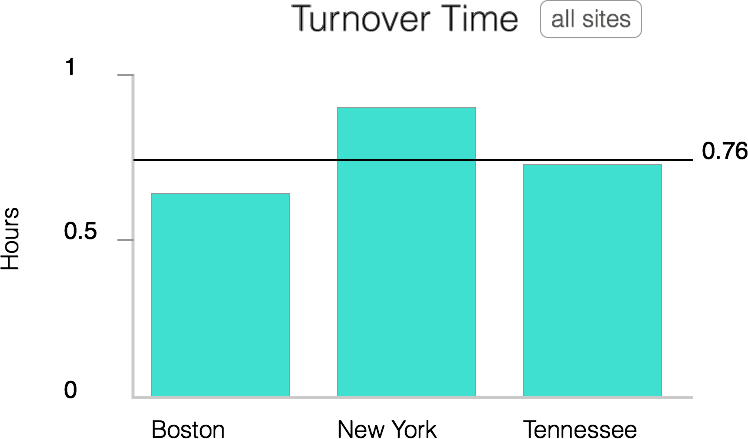
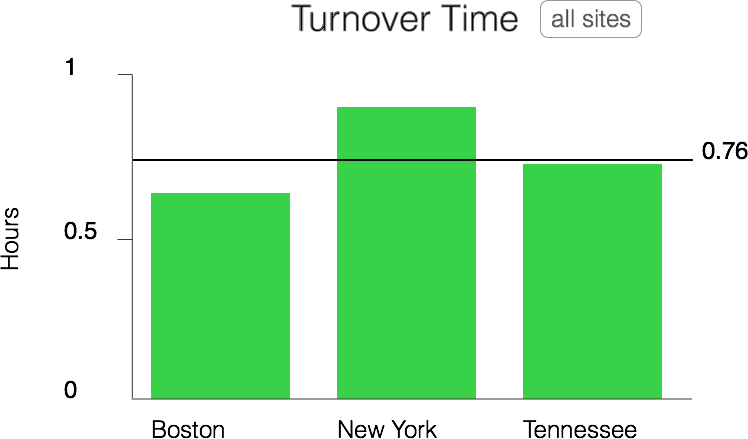
the colors, duke.

diff --git a/index.html b/index.html
@@ -56,8 +56,8 @@
     </head>
     <body data-spy="scroll" data-target="nav" class="backgroundGradient soft-scroll">
         <header id="header-2" class="soft-scroll header-2 no-shadow">
-            <nav class="main-nav navbar no-shadow margin-bottom0 navbar-static-top backgroundGradient" style="border-bottom:0; ">
-                <div class="container">
+            <nav class="main-nav navbar no-shadow margin-bottom0 navbar-static-top" style="border-bottom:0; ">
+                <div class="container" style="max-width: initial;">
                     <!-- Brand and toggle get grouped for better mobile display -->
                     <div class="navbar-header">
                         <button type="button" class="navbar-toggle collapsed bg-white" data-toggle="collapse" data-target="#navbar-collapse">
@@ -66,8 +66,8 @@
                             <span class="icon-bar"></span>
                             <span class="icon-bar"></span>
                         </button>
-                        <a>
-                            <img src="img/roomflag_bevel3_copy_copy.png" style="max-height:70px" class="pad20" />
+                        <a class="pull-left">
+                            <img src="img/roomflag_logo_bg.png" style="max-height:70px" class="pad20" />
                         </a>
                     </div>
                     <!-- Collect the nav links, forms, and other content for toggling -->
@@ -93,38 +93,20 @@
                 <!-- /.container-fluid -->
             </nav>
         </header>
-        <section id="promo-1" class="content-block promo-1 bg-image-cover backgroundGradient min-height-700px">
-            <svg viewbox="0 0 1226 340" id="back-rainbow" preserveaspectratio="none" style="
-    right: 0;
-    width: 78%;
-">
-                <defs>
-                    <linearGradient x1="100%" y1="0%" x2="0%" y2="15%" id="back-rainbow-gradient">
-                        <stop stop-color="#40E0D0" offset="0%"></stop>
-                        <stop stop-color="#40E0D0" offset="100%"></stop>
-                    </linearGradient>
-                </defs>
-                <path d="M1074 0C673.94.2 303.56 126 0 340h1226V6c-50.1-3.72-100.95-5.8-152-6z" fill="url(#back-rainbow-gradient)"></path>
-            </svg>
-            <svg viewbox="0 0 1280 110" preserveaspectratio="none" id="header-curve-shadow">
-                <path d="M1280 3.9V110H0C194 71.33 662-19.9 1280 3.9z"></path>
-            </svg>
-            <svg viewbox="0 0 1280 110" preserveaspectratio="none" id="header-curve">
-                <path d="M1280 3.9V110H0C194 71.33 662-19.9 1280 3.9z" fill="#fff"></path>
-            </svg>
-            <div class="container" style="max-width: initial;">
+        <section id="promo-1" class="content-block promo-1 bg-image-cover min-height-600px backgroundGradient">
+            <div class="container" style="//max-width: initial;">
                 <div class="row">
+                    <!-- /.col -->
                     <div class="col-md-5">
-                        <h1 class="deepocean">The best way to track your facilities&nbsp;&trade;<br /></h1>
-                        <h4 class="deepocean" style="padding:1em; font-weight:300; border: 1px solid #193441;">increase service-speed and satisfy customers while collecting critical data to inform your management decisions.</h4>
+                        <h1 class="deepocean">The best way to track your rooms&trade;<br></h1>
+                        <h4 class="deepocean" style="padding:.5em 1em ; font-weight:300; border: 1px solid #193441;">increase service-speed and satisfy customers while collecting critical data to inform your management decisions.</h4>
                         <form>
                             <div class="input-group darkGlow">
                                 <input type="email" class="form-control input-lg email" placeholder="Email">
-                                <span class="input-group-btn"><button class="btn btn-success btn-lg bg-light-turquoise" type="submit">RSVP</button></span>
+                                <span class="input-group-btn"><button class="btn btn-success btn-lg bg-primary" type="submit">RSVP</button></span>
                             </div>
                         </form>
                     </div>
-                    <!-- /.col -->
                     <div class="col-md-6 col-md-offset-1">
                         <div class="videoWrapper margin-top30">
                             <iframe width="500" height="281.25" src="https://www.youtube.com/embed/VheoJ7mNLCo?rel=0&amp;showinfo=0" frameborder="0" allowfullscreen class="outlineGrey"></iframe>
@@ -135,21 +117,14 @@
                 <!-- /.row -->
             </div>
         </section>
-        <section class="content-block content-2-3 pad90 pad-bottom90">
+        <section class="content-block content-2-3 pad90 pad-bottom90 bg-primary">
             <div class="container">
-                <div class="text-center col-sm-12">
-                    <div style="padding:1em;" class="bg-white">
-                        <h1 class="margin-bottom60 hidden-xs visible-sm visible-md visible-lg deepocean">Make management&nbsp;<span class="turquoise">simple</span>.<small class="moonlight"><br>If you manage rooms or facilities, you need RoomFlag.</small></h1>
-                        <h2 class="deepocean margin-bottom60 hidden-sm hidden-md hidden-lg">Make management a&nbsp;breeze.</h2>
-                        <h2 class="moonlight text-justify bg-white" style="padding:1em; font-weight:300; border: 1px solid #193441;"><small class="moonlight">Coordinating your staff and&nbsp;keeping track of what's going on in your facilities&nbsp;is a burden. RoomFlag makes your facilities run smoothly by being the one place where everyone can keep track of the real-time status of resources and communicate useful information. RoomFlag can also analyze how your resources are being used and serve you key information to help inform your business decisions and&nbsp;maximize your time.</small></h2>
-                        <!-- /.input-group -->
-                    </div>
+                <div style="padding:1em 0;" class="margin-top30 margin-bottom30 text-center">
+                    <h1 class="hidden-xs visible-sm visible-md visible-lg margin-bottom30 white margin-top0" style="font-weight: 400; font-size: 60px">Room-management&nbsp;<span class="white" style="font-weight: 300; font-size: 45px; border-bottom: 1px solid #ffffff">simplified</span>.<small class="white" style="font-size: 25px"><br>If you manage rooms or facilities, use RoomFlag.</small></h1>
+                    <h2 class="margin-bottom30 white margin-top0 visible-xs hidden-sm hidden-md hidden-lg" style="font-weight: 400;">Make management <span class="white" style="font-weight: 300;">simple</span>.<small class="white"><br><br>If you manage rooms or facilities, use RoomFlag.</small></h2>
+                    <p class="text-justify white" style="padding:1em 0; //font-weight:300; ">Coordinating your staff and&nbsp;keeping track of what's going on in your facilities&nbsp;is a burden. RoomFlag makes your business run smoothly by being the one place where everyone can keep track of the real-time status of resources and communicate useful information. RoomFlag can also analyze how your resources are being used and serve you key information to help inform your business decisions and&nbsp;maximize your time.</p>
+                    <!-- /.input-group -->
                 </div>
-            </div>
-            <!-- /.container -->
-        </section>
-        <section id="content-3-6" class="content-block content-3-6">
-            <div class="container">
                 <div class="row">
                     <!-- Feature Box 1 -->
                     <div class="col-sm-4 col-xs-12">
@@ -164,11 +139,10 @@
                     <!-- Feature Box 2 -->
                     <!-- Feature Box 3 -->
                 </div>
-                <!-- Row Ends -->
             </div>
-            <!-- Container Ends -->
+            <!-- /.container -->
         </section>
-        <section id="content-1-3" class="content-block content-1-3">
+        <section id="content-1-3" class="content-block content-1-3 pad90">
             <div class="bloc bgc-white l-bloc" id="bloc-2">
                 <div class="container bloc-md">
                     <div class="row margin-bottom30">
@@ -181,7 +155,7 @@
                     <div class="row voffset-md">
                         <div class="col-sm-4">
                             <div class="text-center">
-                                <span class="icon-profile-female deepocean" style="visibility: visible; font-size:7em;"></span>
+                                <span class="icon-profile-female primary-color" style="visibility: visible; font-size:7em;"></span>
                             </div>
                             <h3 class="text-center mg-md deepocean"><strong class="moonlight">1.</strong> Register an account</h3>
                             <p class="mg-md  text-left text-center moonlight">
@@ -189,7 +163,7 @@
                         </div>
                         <div class="col-sm-4">
                             <div class="text-center">
-                                <span class="icon-mobile deepocean" style="visibility: visible; font-size:7em;"></span>
+                                <span class="icon-mobile primary-color" style="visibility: visible; font-size:7em;"></span>
                             </div>
                             <h3 class="text-center mg-md deepocean"><strong class="moonlight">2.</strong> Set a device in each room</h3>
                             <p class="text-left text-center moonlight">
@@ -197,7 +171,7 @@
                         </div>
                         <div class="col-sm-4">
                             <div class="text-center">
-                                <span class="icon-presentation deepocean" style="visibility: visible; font-size:7em;"></span>
+                                <span class="icon-presentation primary-color" style="visibility: visible; font-size:7em;"></span>
                             </div>
                             <h3 class="text-center mg-md deepocean"><strong class="moonlight">3.</strong> Enjoy</h3>
                             <p class="text-left text-center moonlight">
@@ -207,16 +181,16 @@
                 </div>
             </div>
         </section>
-        <section class="content-block content-2-3 backgroundGradient pad90 pad-bottom90">
+        <section class="content-block content-2-3 pad90 pad-bottom90 bg-primary">
             <div class="container">
                 <div class="text-center col-sm-8 col-sm-offset-2">
                     <div style="padding:1em;" class="bg-white">
-                        <h2 class="deepocean pad30 pad-bottom20"><span class="turquoise">100,000+</span> Statuses tracked&nbsp;<br></h2>
+                        <h2 class="deepocean pad30 pad-bottom20"><span class="primary-color">100,000+</span> Statuses tracked&nbsp;<br></h2>
                         <h2 class="deepocean pad-bottom30"><small class="asbestos">We're re-opening registration soon. <br>Let us remind you when we're ready.</small></h2>
                         <form>
                             <div class="input-group darkGlow">
                                 <input type="email" class="form-control input-lg email" placeholder="Email">
-                                <span class="input-group-btn"><button class="btn btn-success btn-lg bg-light-turquoise" type="submit">RSVP</button></span>
+                                <span class="input-group-btn"><button class="btn btn-success btn-lg bg-primary" type="submit">RSVP</button></span>
                             </div>
                         </form>
                         <!-- /.input-group -->
@@ -262,7 +236,7 @@
                                             <li>Staff disrupting room-occupants.</li>
                                             <li>Staff running back and forth confused.</li>
                                         </ul>
-                                        <a href="#rsvp" class="btn btn-outline btn-outline outline-dark margin-top30 bg-black-hover">Reserve my spot today</a>
+                                        <a href="#rsvp" class="btn margin-top30 bg-primary">Reserve my spot today</a>
                                     </div>
                                 </div>
                                 <!-- /.row-->
@@ -286,7 +260,7 @@
                                         <p>When the status is updated on one device, RoomFlag instantly updates that resource's status on the other devices. Everything is in sync.&nbsp;</p>
                                         <ul>
 </ul>
-                                        <a href="#rsvp" class="btn btn-outline btn-outline outline-dark margin-top30 bg-black-hover">Reserve my spot today</a>
+                                        <a href="#rsvp" class="btn margin-top30 bg-primary">Reserve my spot today</a>
                                     </div>
                                 </div>
                                 <!-- /.row-->
@@ -309,7 +283,7 @@
                                         <p>Or, let the cleaning staff know that they need to re-stock your room so that they can bring the right items with them the first time, every time.</p>
                                         <ul>
 </ul>
-                                        <a href="#rsvp" class="btn btn-outline btn-outline outline-dark margin-top30 bg-black-hover">Reserve my spot today</a>
+                                        <a href="#rsvp" class="btn margin-top30 bg-primary">Reserve my spot today</a>
                                     </div>
                                 </div>
                                 <!-- /.row-->
@@ -332,7 +306,7 @@
                                         <form>
                                             <input type="email" class="form-control input-lg email" placeholder="Email Address">
                                             <input type="hidden" name="campaign" class="contact-campaign" value="alerts-white-paper">
-                                            <span><button class="btn btn-lg btn-outline btn-outline-xl outline-light bg-white-hover offwhite black-hover btn-block bg-light-turquoise" type="submit" style="margin: 0; margin-top: 1em;">Send Me the White-paper</button></span>
+                                            <span><button class="btn btn-lg btn-outline btn-outline-xl outline-light bg-white-hover offwhite black-hover btn-block bg-primary" type="submit" style="margin: 0; margin-top: 1em;">Send Me the White-paper</button></span>
                                         </form>
                                     </div>
                                 </div>
@@ -358,7 +332,7 @@
                                             <li>A room has been left dirty for too long.</li>
                                             <li>A customer has been using a room for too long.</li>
                                         </ul>
-                                        <a href="#rsvp" class="btn btn-outline btn-outline outline-dark margin-top30 bg-black-hover">Reserve my spot today</a>
+                                        <a href="#rsvp" class="btn margin-top30 bg-primary">Reserve my spot today</a>
                                     </div>
                                 </div>
                                 <!-- /.row-->
@@ -379,7 +353,7 @@
                                         <p>Add additional locations in a single click, triggering additional functionality.&nbsp;<br></p>
                                         <p>Add users and give them roles - such as managers and associates.</p>
                                         <p>If you want to be hands-off let us know and we'll set everything up for you.</p>
-                                        <a href="#rsvp" class="btn btn-outline btn-outline outline-dark margin-top30 bg-black-hover">Reserve my spot today</a>
+                                        <a href="#rsvp" class="btn margin-top30 bg-primary">Reserve my spot today</a>
                                     </div>
                                 </div>
                                 <!-- /.row-->
@@ -398,7 +372,7 @@
                                         <h2 class="margin-top0">The Insights you Crave.</h2>
                                         <p>Want to compare the average waiting time for all of your facilities? How about a room-by-room comparison? How do Mondays compare to Saturdays? Mornings to afternoons?</p>
                                         <p>RoomFlag keeps a historical record of every status ever logged for each of your resources. It can store billions of data points with millisecond-level precision.&nbsp;</p>
-                                        <a href="#rsvp" class="btn btn-outline btn-outline outline-dark margin-top30 bg-black-hover">Reserve my spot today</a>
+                                        <a href="#rsvp" class="btn margin-top30 bg-primary">Reserve my spot today</a>
                                     </div>
                                 </div>
                                 <!-- /.row-->
@@ -416,7 +390,7 @@
                                     <div class="image-container col-xs-12 pull-left">
                                         <div>
                                             <img src="img/analysis_anomaly.png" width="100%" style="//border: 1px solid #000; border-radius: 12px;">
-                                            <a href="#rsvp" class="btn btn-outline btn-outline outline-dark margin-top30 bg-black-hover pull-right">Reserve my spot today</a>
+                                            <a href="#rsvp" class="btn margin-top30 bg-primary pull-right">Reserve my spot today</a>
                                         </div>
                                     </div>
                                 </div>
@@ -442,10 +416,10 @@
                         </div>
                     </div>
                     <div class="col-sm-6 col-xs-12 content pad0 pad-bottom0 margin-top0">
-                        <h1 class="margin-top0">Don't just take our word for it!</h1>
+                        <h2 class="margin-top0">Don't just take our word for it!</h2>
                         <p class="lead">Brazils waxing center uses RoomFlag in all of their locations.</p>
                         <p class="lead">RoomFlag keeps their business operating more efficiently, and managers use RoomFlag's metrics to make informed decisions. Brazils handles more clients per day with RoomFlag.</p>
-                        <p class="lead"><a class="turquoise" style="color: rgb(35, 82, 124); outline: 0px; font-family: Lato; cursor: pointer; line-height: 28.5714px; background-color: rgb(255, 255, 255);" href="#promo-1">→ watch video</a><br></p>
+                        <p class="lead"><a style="color: rgb(35, 82, 124); outline: 0px; font-family: Lato; cursor: pointer; line-height: 28.5714px; background-color: rgb(255, 255, 255);" href="#promo-1" class="black">→ watch video</a><br></p>
                         <!-- /.row -->
                         <!-- /.row -->
                     </div>
@@ -454,21 +428,21 @@
             </div>
             <!-- /.container -->
         </section>
-        <section id="rsvp" class="content-block-nopad footer-wrap-1-4 bg-offwhite backgroundGradient">
+        <section id="rsvp" class="content-block-nopad footer-wrap-1-4 bg-offwhite">
             <div class="container footer-1-4 pad90 pad-bottom90">
                 <h1 class="deepocean">Start saving time</h1>
                 <p class="lead deepocean text-center">Get notified when we are ready for <strong>you</strong>. 100,000+ Room-Statuses Tracked</p>
                 <form class="footer-form" action="#">
                     <div>
-                        <input type="email" name="" value="" placeholder="Email address" required class="bg-white deepocean email">
-                        <input type="submit" name="" value="reserve my spot" style="font-weight: 800; background-color: #40E0D0;" class="white bg-light-turquoise">
+                        <input type="email" name="" value="" placeholder="Email address" required class="bg-white deepocean email darkGlow">
+                        <input type="submit" name="" value="reserve my spot" style="font-weight: 800; background-color: #40E0D0;" class="white bg-primary">
                     </div>
                 </form>
                 <!-- /.social -->
             </div>
             <!-- /.container -->
         </section>
-        <section class="content-block-nopad footer-wrap-1-1 bg-asbestos">
+        <section class="content-block-nopad footer-wrap-1-1 bg-primary">
             <div class="container footer-1-1">
                 <div class="row">
                     <div class="col-sm-5">
@@ -507,7 +481,7 @@
                                 <h4>Follow Us</h4>
                                 <ul class="social social-light">
                                     <li>
-                                        <a href="#"><i class="fa fa-2x fa-facebook"></i></a>
+                                        <a href="https://www.facebook.com/RoomFlag/"><i class="fa fa-2x fa-facebook"></i></a>
                                     </li>
                                     <li>
                                         <a href="https://twitter.com/RoomFlag"><i class="fa fa-2x fa-twitter"></i></a>
@@ -533,7 +507,7 @@
             </div>
             <!-- /.container -->
         </section>
-        <div class="copyright-bar bg-asbestos">
+        <div class="copyright-bar bg-primary">
             <div class="container">
                 <p class="pull-left small">© Aster Enterprises</p>
                 <img src="img/roomflag_bevel3_copy_copy.png" class="brand-img pull-right" height="25px">

diff --git a/contact.html b/contact.html
@@ -135,7 +135,7 @@
                                 <p class="small text-muted"><span class="guardsman">* Name and Email are required.</span> Once we receive your message we will respond as soon as possible.</p>
                             </div>
                             <div class="form-group">
-                                <button class="btn btn-lg bg-light-turquoise" type="submit" id="cf-submit" name="submit">Send</button>
+                                <button class="btn btn-lg bg-primary-color" type="submit" id="cf-submit" name="submit">Send</button>
                             </div>
                         </form>
                     </div>
@@ -184,7 +184,7 @@
                                 <h4>Follow Us</h4>
                                 <ul class="social social-light">
                                     <li>
-                                        <a href="#"><i class="fa fa-2x fa-facebook"></i></a>
+                                        <a href="https://www.facebook.com/RoomFlag/"><i class="fa fa-2x fa-facebook"></i></a>
                                     </li>
                                     <li>
                                         <a href="https://twitter.com/RoomFlag"><i class="fa fa-2x fa-twitter"></i></a>

diff --git a/css/style-library-1.css b/css/style-library-1.css
@@ -356,7 +356,6 @@ body
     color: #40E0D0 !important;
 }
 
-
 .aqua
 {
     color: #16A085 !important;
@@ -951,13 +950,14 @@ a
 
 a:hover
 {
-    color: #16a085;
+    color: #38d148; /* #16a085; */
     text-decoration: none;
     -moz-transition: all 0.3s ease;
     -webkit-transition: all 0.3s ease;
     -o-transition: all 0.3s ease;
     transition: all 0.3s ease;
 }
+
 
 /* LISTS */
 
@@ -1813,7 +1813,7 @@ fieldset[disabled] .form-control
 .nav-tabs > li.active > a:focus
 {
     background-color: transparent;
-    border-bottom: 4px solid #40E0D0 !important;
+    border-bottom: 4px solid #38d148 !important;
 }
 
 .nav > li > a:hover,

diff --git a/legal.html b/legal.html
@@ -329,7 +329,7 @@
                                 <h4>Follow Us</h4>
                                 <ul class="social social-light">
                                     <li>
-                                        <a href="#"><i class="fa fa-2x fa-facebook"></i></a>
+                                        <a href="https://www.facebook.com/RoomFlag/"><i class="fa fa-2x fa-facebook"></i></a>
                                     </li>
                                     <li>
                                         <a href="https://twitter.com/RoomFlag"><i class="fa fa-2x fa-twitter"></i></a>

diff --git a/css/lwmods.css b/css/lwmods.css
@@ -71,7 +71,7 @@ null
     mix-blend-mode: overlay;
     opacity: .8;
     width: 100%;
-    height: 13%;
+    height: 18%;
 }
 
 .outlineGrey
@@ -85,9 +85,11 @@ null
     border-radius: 6px;
 }
 
-.bg-light-turquoise
+
+.bg-primary, .bg-primary-color
 {
-    background-color: #40E0D0 !important;
+    background-color: #38d148 !important;
+    background: #38d148 !important;
 }
 
 p
@@ -101,7 +103,13 @@ p
     max-width: 960px;
 }
 
-#toast-container>div {
+#toast-container>div
+{
     opacity: 1;
+}
+
+.primary-color
+{
+    color: #38d148 !important;
 }
 

diff --git a/css/blocks.css b/css/blocks.css
@@ -4093,7 +4093,7 @@ Version: 1.0
 
 .footer-1-1 ul:not(.social) li
 {
-    border-top: 1px solid #bdc3c7;
+    border-top: 1px solid #ffffff;
     line-height: 19px;
     padding: 6px 0;
 }
